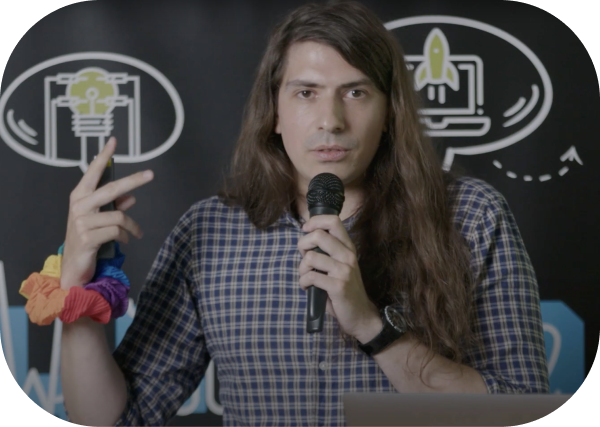
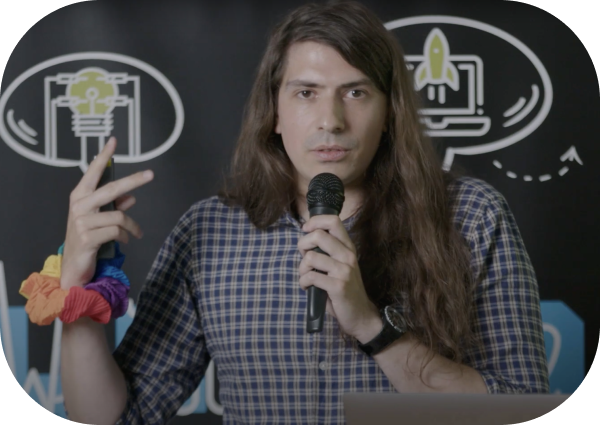
update image

diff --git a/README.md b/README.md
@@ -31,7 +31,7 @@ I’m a Software Engineer & Troublemaker. I like to explore problems on a whiteb
 
 <div align="center">
   <a href="https://www.youtube.com/watch?v=7o182OnK-LY">
-    <img width="300" src=".github/images/speaker.png" />
+    <img height="212" width="300" src=".github/images/speaker.png" />
   </a>
 </div>
 
